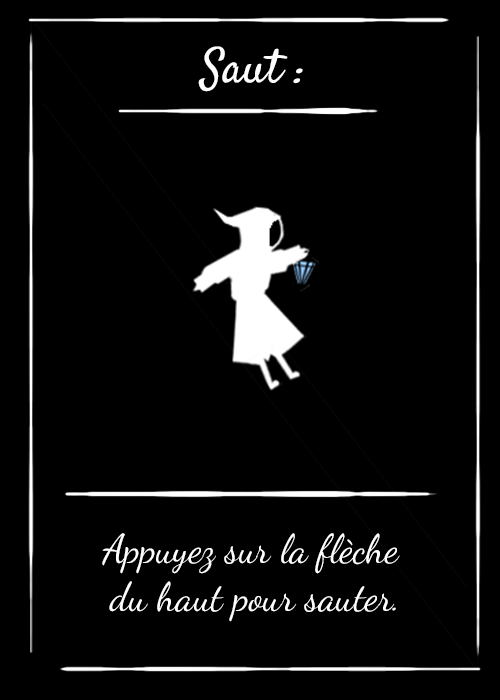
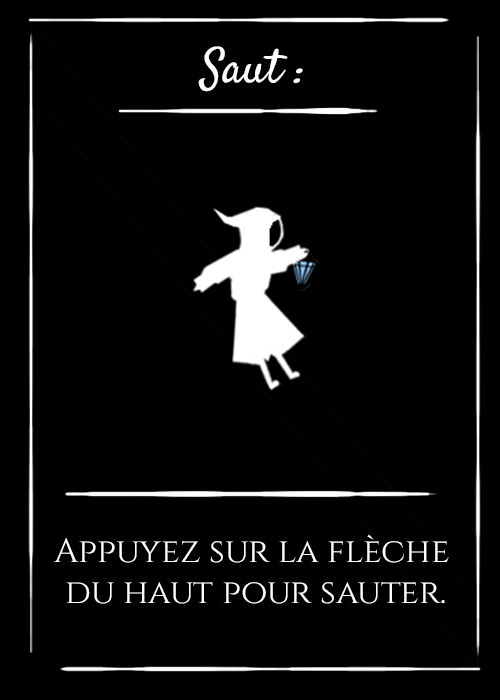
typo tuto + coord spawn

Changed region(s): [[0.12, 0.75, 0.9, 0.9]]

diff --git a/src/Player2.js b/src/Player2.js
@@ -4,7 +4,7 @@ class Player2 {
     constructor(scene) {
         this.scene=scene;
         this.cameras=scene;
-        this.player2 = this.scene.physics.add.sprite(100, 300, 'FeuF');
+        this.player2 = this.scene.physics.add.sprite(100, 488, 'FeuF');
         this.player2.setDisplaySize(40,40);
         this.player2.setCollideWorldBounds(false);
         this.scene.physics.add.collider(this.player2, this.scene.platforms);

diff --git a/src/Player.js b/src/Player.js
@@ -4,7 +4,7 @@ class Player {
     constructor(scene,tuto) {
         this.scene=scene;
         this.tuto=tuto;
-        this.player = this.scene.physics.add.sprite(100, 300, 'player');
+        this.player = this.scene.physics.add.sprite(100, 488, 'player');
         this.player.setDisplaySize(63,100);
         this.player.setBounce(0.1);
         this.player.setCollideWorldBounds(false);
